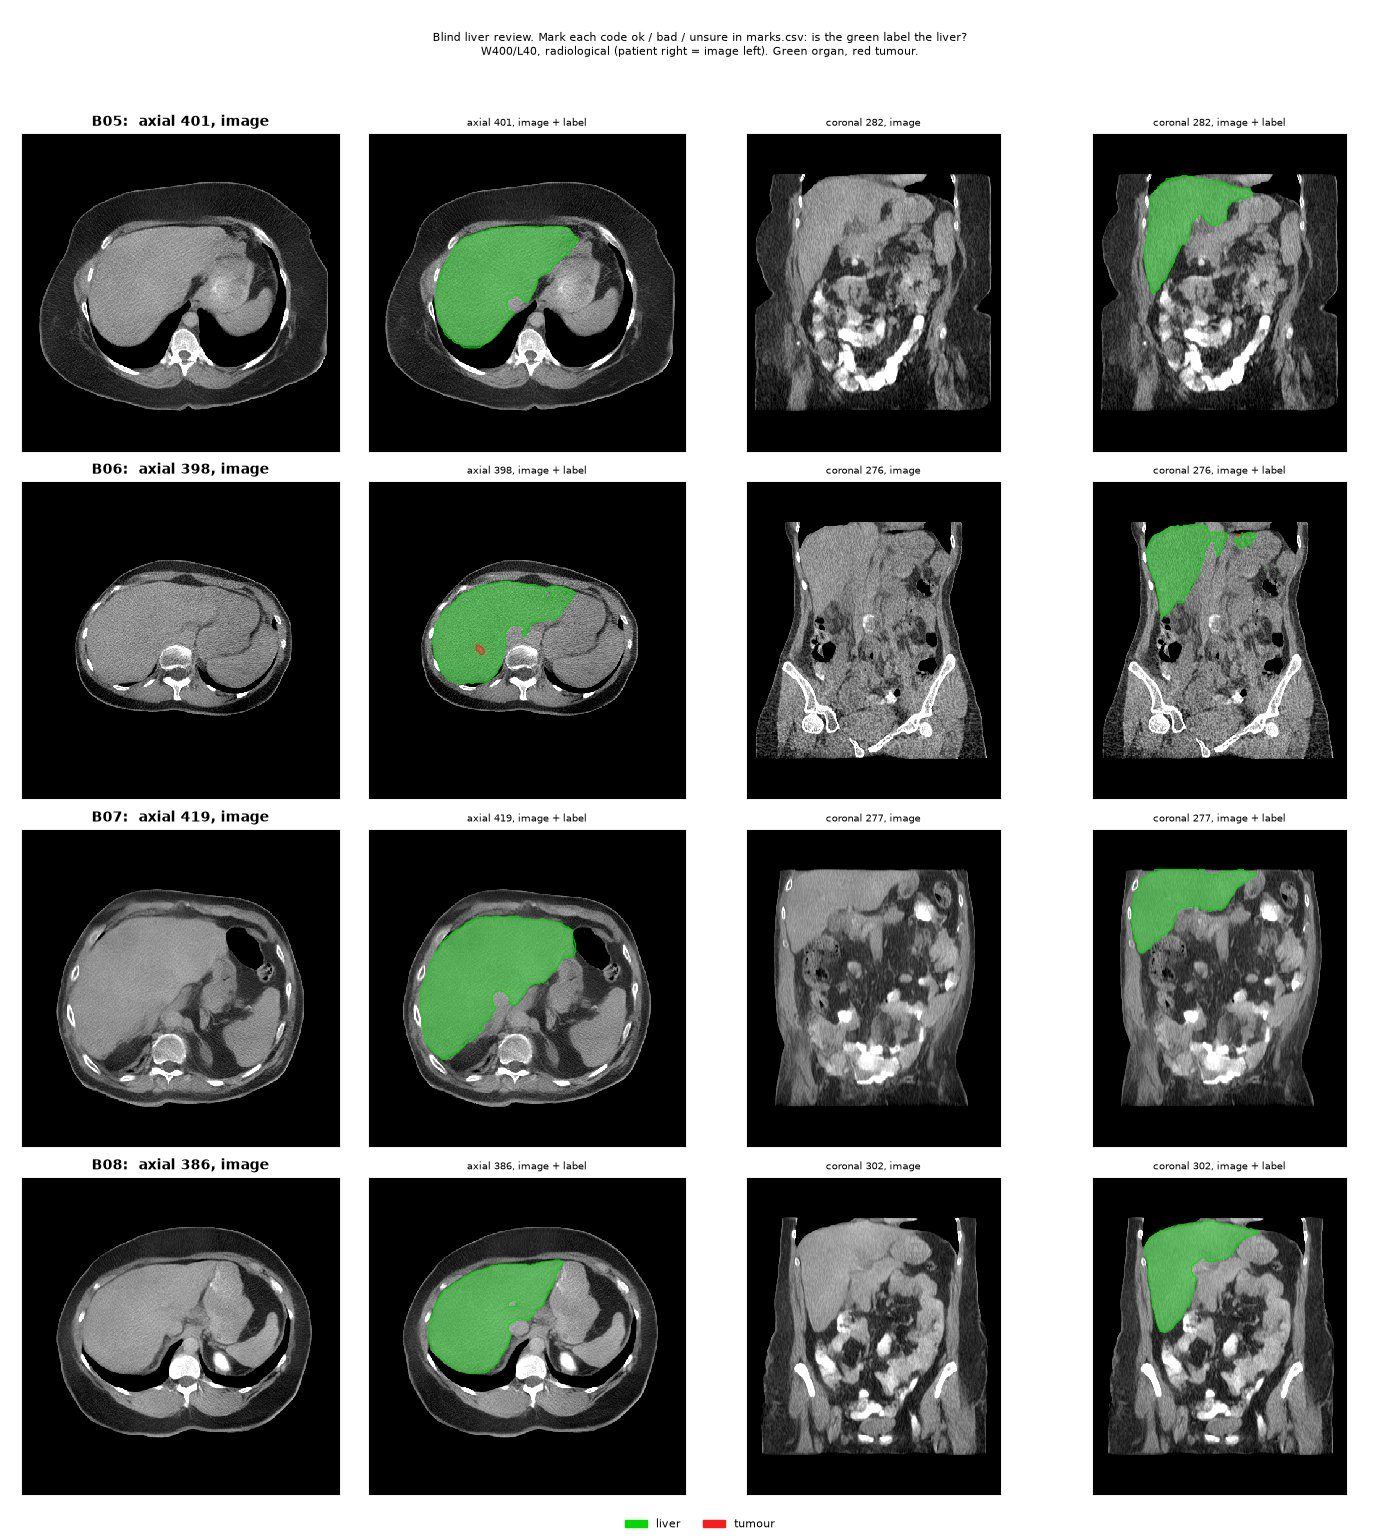
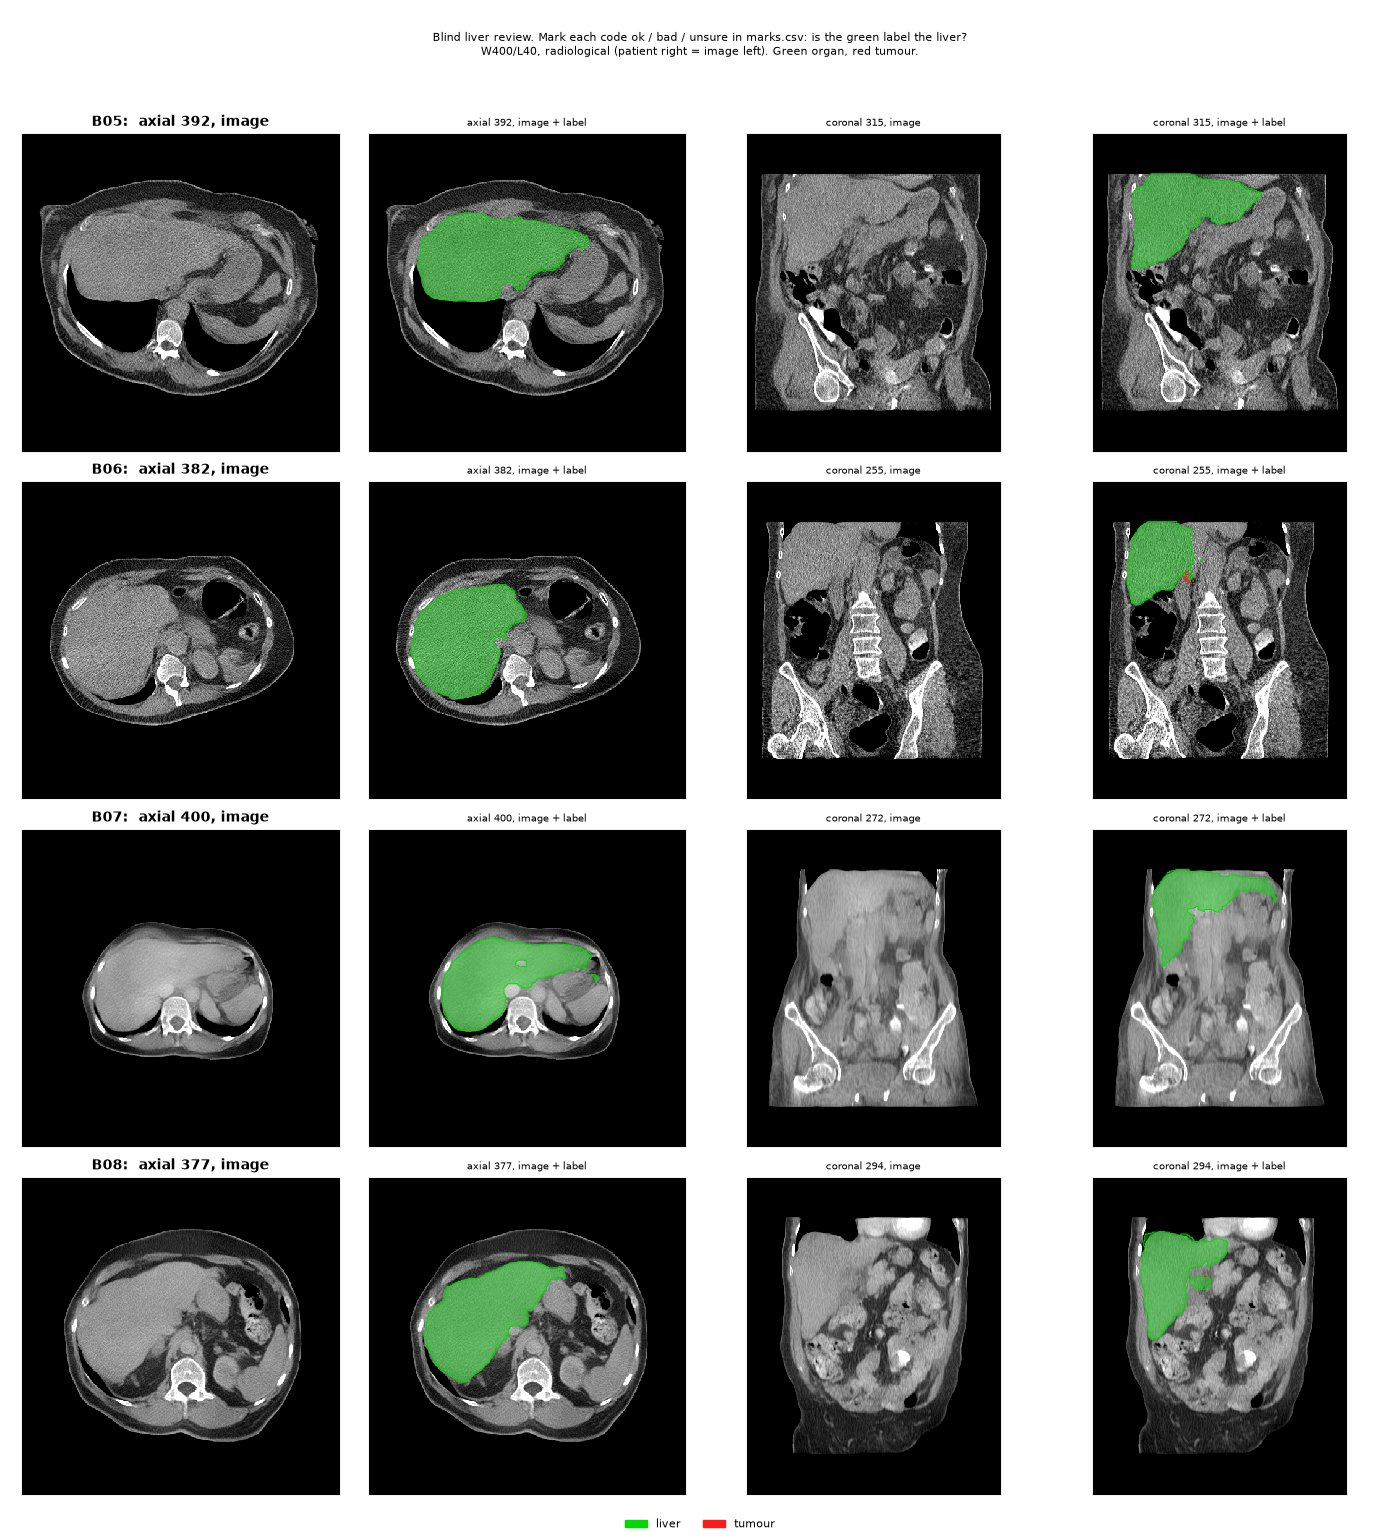
liver_metrics v3: border measures (local HU step, edge offset, edge peak ratio), one-sided liver flags on tissue + border only; liver_review figures redrawn (new blind set); notes

diff --git a/maisi/liver_metrics.py b/maisi/liver_metrics.py
@@ -73,12 +73,19 @@ from orient import spacing_of  # noqa: E402
 REPO = Path(__file__).resolve().parent.parent
 PROJ = os.environ.get("PROJ", "/work/Research")
 CORE_MM, GRAD_SIGMA_MM = 2.0, 1.0
+# border: signed distance to the main liver's surface (mm, < 0 inside); inner / outer shell for the local HU step,
+# Gaussian weight LOCAL_SIGMA_MM; edge profile = mean |grad| per 1 mm distance bin within +-BAND_MM;
+# voxels within TUMOUR_GAP_MM of tumour are left out (a tumour edge is not the liver's edge)
+BAND_MM, SHELL_MM, LOCAL_SIGMA_MM, TUMOUR_GAP_MM = 6, (1.0, 4.0), 3.0, 3.0
 FAT_HU, AIR_HU, BONE_HU, BODY_HU = -30, -200, 300, -500
 RAW_CLASSES = {"aorta": (6,), "ivc": (7,), "portal_vein": (17,), "hepatic_vessel": (25,), "spleen": (3,),
                "kidney": (5, 14)}  # MAISI configs/label_dict.json at dba166e
 PHASE_NONCON_AORTA, PHASE_ART_RATIO, PHASE_PV_AORTA = 100, 0.7, 150  # rough phase rule (see docstring)
-LVERSION = f"liver2 phase cc26 core={CORE_MM:g}mm grad_sigma={GRAD_SIGMA_MM:g}mm fat<{FAT_HU} air<{AIR_HU} bone>{BONE_HU}"
-# (key, description, decimals). FLAG = measures whose real val range defines "flagged" for the blind review.
+LVERSION = f"liver3 border band={BAND_MM}mm shell={SHELL_MM[0]:g}-{SHELL_MM[1]:g}mm local={LOCAL_SIGMA_MM:g}mm phase cc26 core={CORE_MM:g}mm grad_sigma={GRAD_SIGMA_MM:g}mm fat<{FAT_HU} air<{AIR_HU} bone>{BONE_HU}"
+# (key, description, decimals). FLAG = measures whose real val range defines "flagged" for the blind review:
+# only "is the label on liver tissue, and does it follow the liver's edge" (tissue + border). Size, position, extent
+# and pieces vary between real livers (the old liver2 flag used them and flagged 71/111 real test livers); they
+# stay descriptive.
 MEASURES = [
     ("liver_ml", "liver volume (ml, all pieces)", 0),
     ("main_share", "main piece / all liver label", 4),
@@ -89,10 +96,18 @@ MEASURES = [
     ("frac_bone", f"core share > {BONE_HU} HU (bone)", 4),
     ("edge_grad", "edge gradient median (HU/mm)", 1),
     ("edge_ratio", "edge / core gradient", 3),
+    ("border_step_hu", "border: median local |HU inside - HU outside|", 1),
+    ("edge_offset_mm", "border: strongest edge vs label border (mm, + = outside)", 2),
+    ("edge_peak_ratio", "border: edge profile peak / flank (|d| 4-6 mm)", 3),
     ("right_mm", "liver centroid right of body centroid (mm)", 1),
     ("cc_extent_mm", "main liver craniocaudal extent (mm)", 1),
 ]
-FLAG = [m for m, _, _ in MEASURES if m != "edge_grad"]  # raw gradient depends on noise/resolution; the ratio doesn't
+# Each flag measure only flags in the "less liver-like" direction ("abs": |x| beyond the largest real |x|). MAISI draws
+# the image from the mask, so its edge sits exactly on the label and is sharper than on real labels (LiTS labels lie
+# 1-5 mm inside the visible edge): "too exact" is not "not liver", so low offset / high peak ratio don't flag.
+FLAG_SIDE = {"hu_median": "both", "hu_iqr": "high", "frac_fat": "high", "frac_air": "high", "frac_bone": "high",
+             "border_step_hu": "low", "edge_offset_mm": "abs", "edge_peak_ratio": "low"}
+FLAG = list(FLAG_SIDE)
 
 
 # --- measurement ---------------------------------------------------------------------------------------------------
@@ -132,7 +147,7 @@ def liver_record(label, img, spacing):
     if not fg.any():
         rec.update(liver_ml=0.0, n_pieces=0, pieces=[], tumours=[])
         return rec
-    margin = np.ceil(4 * GRAD_SIGMA_MM / sp).astype(int) + 3
+    margin = np.ceil(max(4 * GRAD_SIGMA_MM, BAND_MM + 2 * LOCAL_SIGMA_MM) / sp).astype(int) + 2
     box = ndimage.find_objects(fg.astype(np.uint8))[0]
     sl = tuple(slice(max(b.start - m, 0), min(b.stop + m, n)) for b, m, n in zip(box, margin, label.shape))
     off = np.array([s.start for s in sl])
@@ -200,6 +215,8 @@ def liver_record(label, img, spacing):
     surface &= ~ndimage.binary_dilation(tumor[ls], STRUCT26, iterations=2)
     edge = float(np.median(g[surface])) if surface.any() else None
     core_g = float(np.median(g[core[ls]]))
+    border = border_measures(img[tuple(slice(s.start + o, s.stop + o) for s, o in zip(ls, off))], g, mm,
+                             tumor[ls], sp)
     del g
     sub = img[::4, ::4, ::4] > BODY_HU
     wx = sub.sum(axis=(1, 2))
@@ -218,6 +235,7 @@ def liver_record(label, img, spacing):
         "frac_bone": round(float((v > BONE_HU).mean()), 4),
         "edge_grad": None if edge is None else round(edge, 1), "core_grad": round(core_g, 1),
         "edge_ratio": None if edge is None or core_g <= 0 else round(edge / core_g, 3),
+        **border,
         "right_mm": round((body_cx - liver_cx) * sp[0], 1),
         "cc_extent_mm": round(float(zs[-1] - zs[0] + 1) * sp[2], 1),
         "z_liver": z_best(main_mask, off[2]), "y_liver": cy,
@@ -225,6 +243,61 @@ def liver_record(label, img, spacing):
         "pieces": prow, "tumours": trow,
     })
     return rec
+
+
+def border_measures(im, g, mm, tumor, sp):
+    """Does the label follow the liver's edge? `im` HU, `g` |grad| (HU/mm), `mm` main liver, `tumor`, same crop.
+    sd = signed distance to the label border (mm, < 0 inside; first layers at -+1 voxel). Voxels within
+    TUMOUR_GAP_MM of tumour are left out.
+      border_step_hu  median over the border of |mean HU in the inner shell - mean HU in the outer shell|, both
+                      local (Gaussian LOCAL_SIGMA_MM, shells SHELL_MM from the border). A label on the liver has a
+                      visible step along most of its border (liver vs fat, lung, bowel, kidney); a label that covers
+                      other tissue or none sits in uniform tissue -> small steps.
+      edge_offset_mm  where the mean |grad| per 1 mm sd bin peaks (parabolic fit), relative to the border. ~0 when
+                      the label follows the edge; a shifted / too big / too small label peaks inside or outside.
+      edge_peak_ratio the peak over the flanks (mean of the bins with 4 <= |sd| <= BAND_MM): a sharp edge on the
+                      border vs no particular edge there."""
+    ok = np.ones(mm.shape, bool)
+    if tumor.any():
+        ok = ndimage.distance_transform_edt(~tumor, sampling=sp) >= TUMOUR_GAP_MM
+    sd = ndimage.distance_transform_edt(~mm, sampling=sp).astype(np.float32)
+    sd -= ndimage.distance_transform_edt(mm, sampling=sp).astype(np.float32)
+    res = {"border_step_hu": None, "edge_offset_mm": None, "edge_peak_ratio": None}
+    surface = mm & ~ndimage.binary_erosion(mm, border_value=0) & ok
+    if surface.sum() < 50:
+        return res
+    sig = [LOCAL_SIGMA_MM / s for s in sp]
+    lo, hi = SHELL_MM
+    means = []
+    for shell in ((sd <= -lo) & (sd >= -hi) & ok, (sd >= lo) & (sd <= hi) & ok):
+        w = shell.astype(np.float32)
+        den = ndimage.gaussian_filter(w, sig)[surface]
+        num = ndimage.gaussian_filter(im * w, sig)[surface]
+        means.append((num, den))
+    (ni, di), (no, do) = means
+    good = (di > 0.05) & (do > 0.05)
+    if good.sum() >= 50:
+        res["border_step_hu"] = round(float(np.median(np.abs(ni[good] / di[good] - no[good] / do[good]))), 1)
+    band = ok & (np.abs(sd) <= BAND_MM)
+    b = np.floor(sd[band]).astype(int) + BAND_MM  # bin k covers sd in [k - BAND_MM, k - BAND_MM + 1)
+    cnt = np.bincount(b, minlength=2 * BAND_MM + 1)
+    prof = np.bincount(b, weights=g[band], minlength=2 * BAND_MM + 1) / np.maximum(cnt, 1)
+    centres = np.arange(len(prof)) - BAND_MM + 0.5
+    valid = cnt >= 20
+    inner = valid & (np.abs(centres) <= BAND_MM - 1)  # peak search away from the band's ends
+    if inner.sum() >= 3:
+        k = int(np.flatnonzero(inner)[np.argmax(prof[inner])])
+        off = centres[k]
+        if 0 < k < len(prof) - 1 and valid[k - 1] and valid[k + 1]:
+            y0, y1, y2 = prof[k - 1], prof[k], prof[k + 1]
+            den = y0 - 2 * y1 + y2
+            if den < 0:
+                off += 0.5 * (y0 - y2) / den
+        flank = valid & (np.abs(centres) >= 4)
+        res["edge_offset_mm"] = round(float(off), 2)
+        if flank.any() and prof[flank].mean() > 0:
+            res["edge_peak_ratio"] = round(float(prof[k] / prof[flank].mean()), 3)
+    return res
 
 
 def vessel_hu(raw_path, img, label):
@@ -365,9 +438,13 @@ def outside(rec, rng):
     for m in FLAG:
         if m in rng and rec.get(m) is not None:
             lo, hi = rng[m]
-            if rec[m] < lo:
+            side = FLAG_SIDE[m]
+            if side == "abs":
+                if abs(rec[m]) > max(abs(lo), abs(hi)):
+                    out.append((m, "low" if rec[m] < 0 else "high", rec[m]))
+            elif rec[m] < lo and side in ("both", "low"):
                 out.append((m, "low", rec[m]))
-            elif rec[m] > hi:
+            elif rec[m] > hi and side in ("both", "high"):
                 out.append((m, "high", rec[m]))
     return out
 
@@ -483,7 +560,10 @@ def tables(out, metrics_dir, cuts):
     # 4. liver measures
     L += ["## 4. Is the liver label liver? Measures vs the 20 real val livers", "",
           "A pool volume is *outside* if a measure is below the min or above the max of the real val livers (same "
-          "principle as the AUC cut: unlike every real liver). Flag measures: " + ", ".join(FLAG) + ".", "",
+          "principle as the AUC cut: unlike every real liver), counted only in the less liver-like direction: "
+          + ", ".join(f"{m} ({FLAG_SIDE[m]})" for m in FLAG) + " (abs = |x| beyond the largest real |x|). MAISI's edge "
+          "sits exactly on its label and is sharper than on real labels (drawn from the mask), so a low edge offset "
+          "or a high peak ratio does not flag. 'pool below / above' count every value beyond the range.", "",
           "| measure | real val min / max | real test p5 / median / p95 | pool p5 / median / p95 | pool below | "
           "pool above | real test outside |", "|---|---|---|---|---|---|---|"]
     for m, desc, d in MEASURES:
@@ -493,6 +573,9 @@ def tables(out, metrics_dir, cuts):
         below = sum(r.get(m) is not None and r[m] < lo for r in pool)
         above = sum(r.get(m) is not None and r[m] > hi for r in pool)
         tout = sum(r.get(m) is not None and not lo <= r[m] <= hi for r in test)
+        if m in FLAG_SIDE:
+            tout = sum(any(mm == m for mm, _, _ in r["outside"]) for r in test)
+            desc += f" [flag: {FLAG_SIDE[m]}]"
         L.append(f"| {desc} | {lo:.{d}f} / {hi:.{d}f} | {pct([r.get(m) for r in test], d=d)} | "
                  f"{pct([r.get(m) for r in pool], d=d)} | {below} | {above} | {tout}/{len(test)} |")
     flagged = [r for r in pool if r["outside"]]

diff --git a/NOTES.md b/NOTES.md
@@ -23,7 +23,7 @@
 - Optional Claude Code on UCloud (GUIDE section; login kept in `$PROJ/.claude-config`). CLAUDE.md + NOTES.md are in the repo for both machines. Claude on UCloud may run GUIDE steps itself and evaluate them; long jobs always `setsid nohup` + log in `$PROJ/logs` (CLAUDE.md "Running jobs on UCloud").
 
 ## Next steps
-00. **v3 RERUN RUNNING 2026-11-14 09:50** (border measures, log `$PROJ/logs/liver_metrics_v3_20261114_095005.log`; blind set redrawn → old marks.csv/pages replaced). Earlier: **DONE 2026-11-14 09:31** (`liver_metrics.py`, log `$PROJ/logs/liver_metrics_20261114_091712.log`; numbers in the 09:40 Log line; summary `$MAISI_RUNS/pool/filter_metrics/liver/liver_check/summary.md`; figures committed in `reports/figures/liver_review/`). **NOW (user, any device): blind review first** — fill `reports/figures/liver_review/blind/marks.csv` (ok/bad/unsure per B01..B60) *before* opening `open/`; push it; then on UCloud `python maisi/liver_metrics.py --score reports/figures/liver_review/blind/marks.csv`. Then decide: touch v2 (changes only 3 comps), tumour-free-after-repair keep/delete (157 vols under touch), detached liver pieces (leave / main-structure repair / reject), liver check go/no-go (min/max flag hits 537/999 pool but also 71/111 real test → not usable as is).
+00. **v3 DONE 2026-11-14 10:25** (border measures + one-sided flags: pool 214/999 flagged, real test 30/111; numbers in the 10:25 Log line; summary `$MAISI_RUNS/pool/filter_metrics/liver/liver_check/summary.md`; figures in `reports/figures/liver_review/`, blind set redrawn). **NOW (user, any device): blind review first** — fill `reports/figures/liver_review/blind/marks.csv` (ok/bad/unsure per B01..B60) *before* opening `open/`; push it; then on UCloud `python maisi/liver_metrics.py --score reports/figures/liver_review/blind/marks.csv`. Then decide: touch v2 (changes only 3 comps), tumour-free-after-repair keep/delete (157 vols under touch), detached liver pieces (leave / main-structure repair / reject), liver check go/no-go (v3: 214/999 pool, 30/111 real test; border step alone 138 / 0 — candidate on its own; fat share still flags 16/111 real).
 0. **User (other device): report + decide lits_049** (recommended: exclude the whole case as unreliable labels → cut 0.547). Then on UCloud: add entry to `maisi/real_reference_exclusions.json` with reason, `filter_metrics.py --tables-only`, re-run `filter_figures.py`/`review_figures.py`, record the decision, then step 3 (CPU session 2: build + preprocess D103/D104).
 1. **DONE 2026-11-13 21:27** (log `$PROJ/logs/queue_liver_measure_20261113_211525.log`, numbers in Log). **UCloud CPU session, measure only (16 cores / 48 GB, ~40 min).** Nothing to build or preprocess yet.
    ```bash
@@ -91,6 +91,7 @@
 - Run pattern on UCloud (see CLAUDE.md "Running jobs on UCloud"): `setsid nohup bash -c 'source venv/bin/activate && export nnUNet_raw=... nnUNet_preprocessed=... nnUNet_results=... && <cmd>' > $PROJ/logs/<name>_$(date +%Y%m%d_%H%M%S).log 2>&1 < /dev/null &`
 
 ## Log
+- 2026-11-14 10:25 (UCloud): **v3 done** (measure 09:50–~10:15, 0 errors; tables + figures redone 10:19 with one-sided flags, `--resample` → new blind set, marks.csv empty). Border measures vs real val range: **`border_step_hu` is the strong one** (real val 57–183 HU; real test 0/111 below, pool 138/999 below, pool median 73 vs real 107). Edge offset/peak ratio: real labels lie 1–5 mm *inside* the visible edge (offset median 2.1), MAISI's edge sits exactly on its label and is sharper (offset 1.7, ratio 3.2 vs 2.4) because the image is drawn from the mask → "too exact" ≠ "not liver", so **flags are now one-sided** (hu_median both; IQR/fat/air/bone high; border step low; peak ratio low; offset |x| beyond real). Result: **pool flagged 214/999 (was 537), real test 30/111 (was 71)**; per measure pool / real test: border step 138 / 0, fat 60 / 16, IQR 23 / 7, peak ratio low 15 / 7, hu_median 10 / 3, air 10 / 2, offset 0 / 1. Remaining real-test flags mostly the fat share (val max 0.0012 is tight). Liver flag × touch v2: ok+ok 324, flagged+touch-ok 77, flagged+touch-fail 137. Logs `liver_metrics_v3_20261114_095005.log`, `liver_metrics_v3b_tables_20261114_101907.log`. Code + figures committed per user.
 - 2026-11-14 10:30 (UCloud): **liver_metrics v3 done** (09:50–~10:15, 0 errors, 11 workers, ~15 GB anon). Then (another Claude session in parallel) flags made **one-directional** (only the less liver-like side: hu_median both, iqr/fat/air/bone high, border_step low, edge_offset |x|, peak_ratio low; reason: MAISI's edge sits exactly on its label and is sharper than real labels, so 'too perfect' must not flag) + `--tables-only` rerun (log `liver_metrics_v3b_tables_20261114_101907.log`). **Result: pool flagged 214/999 (was 537), real test 30/111 (was 71).** Per measure (real val min/max → pool beyond / real test outside): **border_step_hu 56.6–182.5 → pool 138 low / test 0** (pool median 73 vs real test 107: the strongest new signal), edge_offset real val 1.05–4.79 mm (real labels sit ~2 mm inside the edge), pool median 1.7, test 1 outside; peak_ratio low 15 / test 7; fat high 60 / test 16 (val max 0.0012 too tight); iqr high 23 / test 7; hu_median low 10 / test 3; air high 10 / test 2. Most extreme low step: liver_0761 31, liver_0529 35, liver_0954 36. Flag × touch v2: flagged+touch-ok 77, flagged+touch-fail 137. New blind set (`--resample`, marks.csv empty). Status watcher died again without renaming (3rd time); moved by hand. Note: 4 Claude processes were running in this repo at once.
 - 2026-11-14 10:03 (UCloud): Per user ("better grasp of what is really liver, border changes"): `liver_metrics.py` v3 (uncommitted): new **border measures** — `border_step_hu` (median local |HU inner shell 1–4 mm − outer shell 1–4 mm| along the label border, Gaussian 3 mm), `edge_offset_mm` (where the mean |grad| profile over signed distance −6..+6 mm peaks, vs the label border), `edge_peak_ratio` (peak / flanks at |d| 4–6 mm); voxels ≤ 3 mm from tumour left out. **Flag now only tissue + border** (hu_median, hu_iqr, fat/air/bone share, the 3 border measures); size/side/extent/main share descriptive only (they caused most of the 71/111 real test flags). Fake test (ellipsoid organ 100 HU in −100 HU, 0.8 mm and 5 mm slices): correct label step ~195 HU, offset ~0; 3 mm too big offset −3; shifted 4 mm peak ratio 47 → 6 (8.8 → 2.0 at 5 mm); label in uniform tissue step ~1, ratio 1.0. Rerun all 1130 with `--resample` (new blind set; marks.csv was still empty): log `$PROJ/logs/liver_metrics_v3_20261114_095005.log`, status `$PROJ/LIVER_metrics_v3__*.txt`. Survived a Claude/terminal restart (setsid nohup). Memory ~15 GB anon + page cache, no OOM.
 - 2026-11-14 09:45 (UCloud): Per user, CLAUDE.md rule tightened: every working command on UCloud via `setsid nohup` + log, however short; only instant read-only checks run directly.

diff --git a/reports/figures/liver_review/README.md b/reports/figures/liver_review/README.md
@@ -1,10 +1,10 @@
 # Liver review figures
 
-Made by `maisi/liver_metrics.py` (version `liver2 phase cc26 core=2mm grad_sigma=1mm fat<-30 air<-200 bone>300`). Shared figure style (`maisi/viz.py`): W400/L40, radiological, green liver, red tumour. Numbers: `summary.md` next to the caches on UCloud (`/work/Research/maisi_runs/pool/filter_metrics/liver/liver_check`), copied into NOTES.md.
+Made by `maisi/liver_metrics.py` (version `liver3 border band=6mm shell=1-4mm local=3mm phase cc26 core=2mm grad_sigma=1mm fat<-30 air<-200 bone>300`). Shared figure style (`maisi/viz.py`): W400/L40, radiological, green liver, red tumour. Numbers: `summary.md` next to the caches on UCloud (`/work/Research/maisi_runs/pool/filter_metrics/liver/liver_check`), copied into NOTES.md.
 
 ## 1. Blind review first (`blind/`)
 
-60 pool volumes under codes B01..: 30 flagged by the liver measures (outside the real val range on >= 1 measure; 537 in the pool) and 30 not flagged (of 462), shuffled. Each row: axial slice of the liver's largest cross-section and coronal slice through its centroid, image alone and with the label.
+60 pool volumes under codes B01..: 30 flagged by the liver measures (outside the real val range on >= 1 measure; 214 in the pool) and 30 not flagged (of 785), shuffled. Each row: axial slice of the liver's largest cross-section and coronal slice through its centroid, image alone and with the label.
 
 Fill `blind/marks.csv`, one verdict per code: **ok** (the green label is a liver, roughly where the image shows it), **bad** (it covers bowel, fat, other organs or no visible liver; or the anatomy is broken), **unsure**. Then on UCloud: `python maisi/liver_metrics.py --score reports/figures/liver_review/blind/marks.csv`. The key is in `blind_key.json` on UCloud, not in the repo. **Don't open `open/` before marking.**
 
